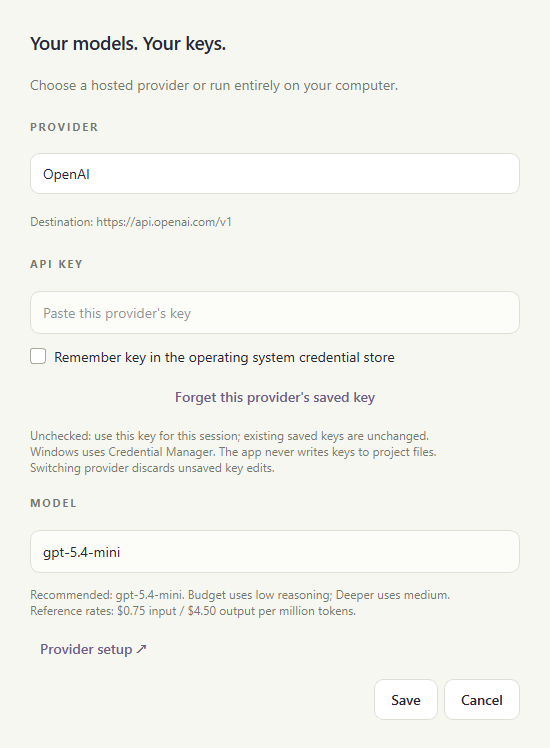
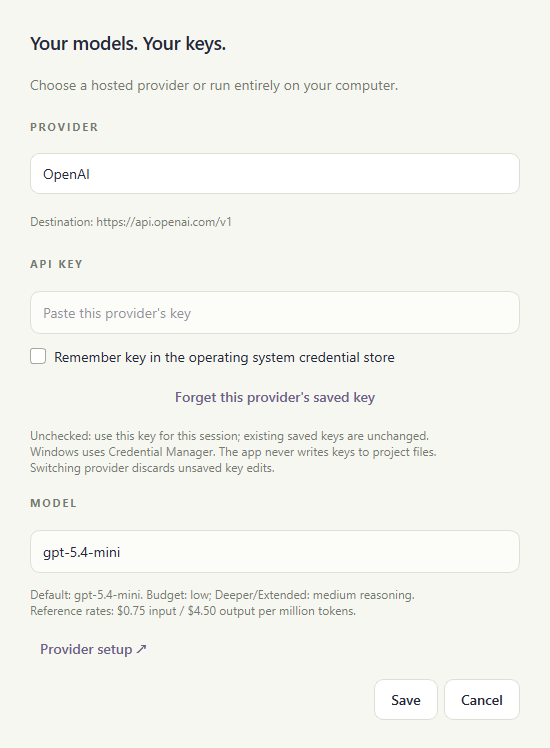
Add explicit extended solve budget and clarify incomplete responses

Changed region(s): [[0.0618, 0.7687, 0.8036, 0.7995]]

diff --git a/src/connections/service.py b/src/connections/service.py
@@ -134,7 +134,7 @@ class SolverService:
         if not fresh:
             if cached := self._cached(key):
                 return cached
-        deeper = request.mode == "deeper"
+        deeper = request.mode != "budget"
         locked_words = {word for group in request.locked for word in group.words}
         remaining = [word for word in request.words if word not in locked_words]
         count = 4 - len(request.locked)
@@ -157,7 +157,7 @@ class SolverService:
             SOLVE_PROMPT,
             json.dumps(payload),
             effort="medium" if deeper else "low",
-            max_tokens=6500 if deeper else 3500,
+            max_tokens={"budget": 3500, "deeper": 6500, "extended": 16000}[request.mode],
         )
         solution = Solution(
             groups=[
@@ -216,6 +216,7 @@ class SolverService:
                 text_format=schema,
                 reasoning={"effort": effort},
                 max_output_tokens=max_tokens,
+                timeout=300.0 if max_tokens > 6500 else 90.0,
                 store=False,
             )
         except AuthenticationError:
@@ -251,9 +252,28 @@ class SolverService:
             ) from None
         usage = self._usage(response)
         if response.status == "incomplete":
+            reason = getattr(response.incomplete_details, "reason", None)
+            if reason != "max_output_tokens":
+                message = (
+                    "The provider filtered the response. Review the input; "
+                    "increasing the token budget will not resolve a content filter. "
+                    if reason == "content_filter"
+                    else "The provider returned an incomplete response "
+                    "without a token-limit reason. "
+                )
+                raise ServiceError(
+                    message + "No automatic retry was made. This request may be billed.", usage
+                )
             raise ServiceError(
-                "The response stopped before finishing its token budget. Try deeper "
-                "mode or simplify the image. This request may be billed.",
+                f"The model exhausted its {max_tokens:,}-token output budget "
+                "(including reasoning); this is not a timeout. "
+                + (
+                    "Try Extended mode or a cheaper provider. "
+                    if max_tokens < 16000
+                    else "Extended's limit was reached too. "
+                    "Try a different model or add confirmed groups. "
+                )
+                + "No automatic retry was made. This request may be billed.",
                 usage,
             )
         if response.output_parsed is None:
@@ -293,6 +313,7 @@ class SolverService:
             ],
             response_format={"type": "json_object"},
             max_tokens=max_tokens,
+            timeout=300.0 if max_tokens > 6500 else 90.0,
             **options,
         )
         raw_usage = response.usage
@@ -325,7 +346,10 @@ class SolverService:
         model = self.settings.model
         try:
             # Check before sending puzzle data, including aliases with innocent-looking names.
-            info_response = self._local_client.post(base + "/api/show", json={"model": model})
+            timeout = 300.0 if max_tokens > 6500 else 180.0
+            info_response = self._local_client.post(
+                base + "/api/show", json={"model": model}, timeout=timeout
+            )
             info_response.raise_for_status()
             info = info_response.json()
             if (
@@ -365,11 +389,14 @@ class SolverService:
                     },
                     user_message,
                 ],
-                "options": {"num_ctx": 8192, "num_predict": max_tokens},
+                "options": {
+                    "num_ctx": max_tokens + 4096 if max_tokens > 6500 else 8192,
+                    "num_predict": max_tokens,
+                },
             }
             if "thinking" in info.get("capabilities", []):
                 body["think"] = False
-            response = self._local_client.post(base + "/api/chat", json=body)
+            response = self._local_client.post(base + "/api/chat", json=body, timeout=timeout)
             response.raise_for_status()
             result = response.json()
             if result.get("done") is not True or result.get("done_reason") == "length":

diff --git a/tests/test_providers.py b/tests/test_providers.py
@@ -15,7 +15,8 @@ from connections.service import ServiceError, SolverService
 @pytest.mark.parametrize(
     "provider,host", [("kimi", "api.moonshot.ai"), ("deepseek", "api.deepseek.com")]
 )
-def test_cloud_chat_uses_own_key_and_validated_json(provider, host):
+@pytest.mark.parametrize("mode", ["budget", "extended"])
+def test_cloud_chat_uses_own_key_and_validated_json(provider, host, mode):
     settings = Settings(provider=provider, api_key="provider-only")
     requests = []
 
@@ -51,22 +52,22 @@ def test_cloud_chat_uses_own_key_and_validated_json(provider, host):
         http_client=httpx.Client(transport=httpx.MockTransport(handle)),
     )
     service = SolverService(settings, client=client)
-    result = service.solve(SolveRequest(words=WORDS))
+    result = service.solve(SolveRequest(words=WORDS, mode=mode))
     assert len(result.value.groups) == 4
     assert requests[0].url.host == host
     assert requests[0].headers["authorization"] == "Bearer provider-only"
     assert result.usage.estimated_cost_usd is None
     body = json.loads(requests[0].content)
     assert body["response_format"] == {"type": "json_object"}
-    assert body["max_tokens"] == 3500
-    assert (
-        body["reasoning_effort"] == "low"
-        if provider == "kimi"
-        else body["thinking"] == {"type": "disabled"}
-    )
+    assert body["max_tokens"] == (16000 if mode == "extended" else 3500)
+    assert requests[0].extensions["timeout"]["read"] == (300 if mode == "extended" else 90)
+    if provider == "kimi":
+        assert body["reasoning_effort"] == ("high" if mode == "extended" else "low")
+    else:
+        assert body["thinking"] == {"type": "enabled" if mode == "extended" else "disabled"}
 
 
-def local_service(*, remote=False, malformed=False):
+def local_service(*, remote=False, malformed=False, solving=False):
     requests = []
 
     def handle(request):
@@ -86,7 +87,13 @@ def local_service(*, remote=False, malformed=False):
                 "done": True,
                 "done_reason": "stop",
                 "message": {
-                    "content": "{}" if malformed else json.dumps({"words": WORDS, "warning": ""})
+                    "content": "{}"
+                    if malformed
+                    else json.dumps(
+                        {"groups": [g.model_dump() for g in groups()]}
+                        if solving
+                        else {"words": WORDS, "warning": ""}
+                    )
                 },
                 "prompt_eval_count": 100,
                 "eval_count": 100,
@@ -127,3 +134,12 @@ def test_bad_local_output_never_reaches_the_grid():
     service, _ = local_service(malformed=True)
     with pytest.raises(ServiceError, match="valid"):
         service.extract(prepare_image(make_image()))
+
+
+def test_extended_local_budget_has_enough_context_and_longer_request_timeout():
+    service, requests = local_service(solving=True)
+    result = service.solve(SolveRequest(words=WORDS, mode="extended"))
+    assert len(result.value.groups) == 4
+    body = json.loads(requests[-1].content)
+    assert body["options"] == {"num_ctx": 20096, "num_predict": 16000}
+    assert all(request.extensions["timeout"]["read"] == 300 for request in requests)

diff --git a/tests/test_service.py b/tests/test_service.py
@@ -171,6 +171,47 @@ def test_deeper_mode_uses_larger_explicit_budget():
     assert requests[0]["reasoning"]["effort"] == "medium"
 
 
+def test_extended_mode_allows_more_tokens_and_time_without_increasing_reasoning(monkeypatch):
+    service, requests = make_service(response_body({"groups": [g.model_dump() for g in groups()]}))
+    recorded = []
+    original = service._client.responses.parse
+
+    def parse(**options):
+        recorded.append(options["timeout"])
+        return original(**options)
+
+    monkeypatch.setattr(service._client.responses, "parse", parse)
+    service.solve(SolveRequest(words=WORDS, mode="extended"))
+    assert requests[0]["max_output_tokens"] == 16000
+    assert requests[0]["reasoning"]["effort"] == "medium"
+    assert recorded == [300.0]
+
+
+def test_token_exhaustion_message_distinguishes_time_from_budget():
+    body = response_body({}, status="incomplete")
+    body["output"] = []
+    body["incomplete_details"] = {"reason": "max_output_tokens"}
+    service, _ = make_service(body)
+    with pytest.raises(ServiceError) as error:
+        service.solve(SolveRequest(words=WORDS, mode="deeper"))
+    assert "6,500" in str(error.value)
+    assert "Extended" in str(error.value)
+    assert "not a timeout" in str(error.value)
+
+
+@pytest.mark.parametrize("reason", ["content_filter", None])
+def test_other_incomplete_responses_do_not_recommend_a_larger_budget(reason):
+    body = response_body({}, status="incomplete")
+    body["output"] = []
+    body["incomplete_details"] = {"reason": reason} if reason else None
+    service, _ = make_service(body)
+    with pytest.raises(ServiceError) as error:
+        service.solve(SolveRequest(words=WORDS))
+    assert "Extended" not in str(error.value)
+    assert "exhausted" not in str(error.value)
+    assert error.value.usage is not None
+
+
 def test_key_is_never_redirected_by_sdk_base_url_environment(monkeypatch):
     monkeypatch.setenv("OPENAI_BASE_URL", "https://example.invalid/v1")
     service = SolverService(Settings(api_key="test-key"))

diff --git a/src/connections/gui/window.py b/src/connections/gui/window.py
@@ -78,6 +78,7 @@ class MainWindow(QMainWindow):
         self.setStyleSheet(STYLE)
         self.setAcceptDrops(True)
         self._build()
+        self.mode.currentIndexChanged.connect(self._refresh)
         self._refresh()
         if configuration_error:
             self._message(configuration_error)
@@ -244,8 +245,12 @@ class MainWindow(QMainWindow):
         self.mode = QComboBox()
         self.mode.addItem("Budget · everyday", "budget")
         self.mode.addItem("Deeper · tricky puzzles", "deeper")
+        self.mode.addItem("Extended · more time/tokens", "extended")
         self.mode.setAccessibleName("Solving style")
-        self.mode.setToolTip("Budget uses fewer reasoning tokens. Deeper allows more thinking.")
+        self.mode.setToolTip(
+            "Budget: 3,500 tokens. Deeper: 6,500. Extended: 16,000 and a five-minute "
+            "request timeout. Larger allowances can increase cloud costs."
+        )
         options.addWidget(self.mode)
         right.addLayout(options)
         self.solve_button = button("Find connections  →", "Primary", self.start_solve)
@@ -326,7 +331,12 @@ class MainWindow(QMainWindow):
         try:
             SolveRequest(words=words)
             valid = True
-            note = "Ready when you are. Each word will be used exactly once."
+            note = (
+                "Extended: 16,000 tokens · up to five minutes per request. "
+                "May increase cloud cost and local memory use."
+                if self.mode.currentData() == "extended"
+                else "Ready when you are. Each word will be used exactly once."
+            )
         except ValueError:
             valid = False
             note = "Use 16 unique words. Check for empty or duplicate tiles."

diff --git a/src/connections/cli.py b/src/connections/cli.py
@@ -51,7 +51,9 @@ def build_parser() -> argparse.ArgumentParser:
                 "--words-file", type=Path, help="UTF-8 text file, one word per line"
             )
             source.add_argument("--demo", action="store_true", help="Offline example; no API usage")
-            command.add_argument("--mode", choices=["budget", "deeper"], default="budget")
+            command.add_argument(
+                "--mode", choices=["budget", "deeper", "extended"], default="budget"
+            )
         command.add_argument("--json", action="store_true", help="Machine-readable output")
         command.add_argument("--model", help="Override CONNECTIONS_MODEL (advanced)")
         command.add_argument("--provider", choices=list(PROVIDERS), help="Override saved provider")

diff --git a/src/connections/gui/settings_dialog.py b/src/connections/gui/settings_dialog.py
@@ -101,7 +101,7 @@ class SettingsDialog(QDialog):
         self.model_input.setText(settings.model)
         self.destination.setText("Destination: " + provider.base_url)
         notes = {
-            "openai": "Recommended: gpt-5.4-mini. Budget uses low reasoning; Deeper uses medium.\n"
+            "openai": "Default: gpt-5.4-mini. Budget: low; Deeper/Extended: medium reasoning.\n"
             "Reference rates: $0.75 input / $4.50 output per million tokens.",
             "kimi": "Default: kimi-k3.1-pro. Hosted API, billed by Moonshot.\n"
             "Budget uses low reasoning; Deeper uses high. Kimi K2.5 API is retired.",

diff --git a/tests/test_gui.py b/tests/test_gui.py
@@ -233,3 +233,12 @@ def test_replaced_cards_are_hidden_before_deferred_deletion(qtbot):
     assert old_card.isVisible()
     widget.toggle_lock(0, True)
     assert not old_card.isVisible()
+
+
+def test_extended_style_is_explicit_and_warns_about_cost(qtbot):
+    widget = window(qtbot)
+    widget.set_words(DEMO_WORDS)
+    widget.mode.setCurrentIndex(widget.mode.findData("extended"))
+    assert widget.mode.currentData() == "extended"
+    assert "16,000" in widget.board_note.text()
+    assert "cost" in widget.board_note.text().lower()

diff --git a/src/connections/models.py b/src/connections/models.py
@@ -49,7 +49,7 @@ class SolveRequest(StrictModel):
     words: list[str]
     locked: list[Group] = Field(default_factory=list, max_length=4)
     rejected: list[list[str]] = Field(default_factory=list, max_length=32)
-    mode: Literal["budget", "deeper"] = "budget"
+    mode: Literal["budget", "deeper", "extended"] = "budget"
 
     @field_validator("words")
     @classmethod

diff --git a/README.md b/README.md
@@ -176,6 +176,14 @@ Rates and account availability can change.
 | Read screenshot | None | 1,200 |
 | Budget solve | Low | 3,500 |
 | Deeper solve | Medium | 6,500 |
+| Extended solve | Medium | 16,000 |
+
+Extended uses a five-minute request timeout instead of the standard 90 seconds.
+Choose it explicitly under Solving style or pass `--mode extended`. It raises the
+allowance, not the price per token, but can cost more if the model uses more tokens.
+At the reference GPT-5.4 mini rate, 16,000 output tokens alone cost up to $0.072,
+plus input and any image extraction. It does not guarantee completion or accuracy.
+Reasoning uses the output allowance too: a token-budget error is not a timeout.
 
 A **hypothetical** solve with 1,500 uncached input tokens and 2,000 total output
 tokens costs approximately **$0.010125**, about one US cent. Image reading is
@@ -278,10 +286,10 @@ CLI feedback editing is not implemented; use the desktop to lock/reject groups.
 | API key needed/rejected | Add a key in Settings; verify project and permissions. |
 | Billing quota exhausted | Check API credits and project/organization billing limits. |
 | Rate limited | Wait before trying again; there are no hidden retries. |
-| Token budget exhausted | Try Deeper; review spelling and feedback first. |
+| Token budget exhausted | Review words/feedback; Extended allows 16,000 tokens and can cost more. |
 | Wrong/missing words | Crop a sharper grid or edit tiles manually. |
 | Clipboard has no image | Capture to clipboard or use Open image. |
-| Window won't close yet | A request is running (90-second cloud / 180-second local timeout); let it finish. |
+| Window won't close yet | A request is running (90-second cloud / 180-second local; Extended uses 300 seconds); let it finish. |
 | Cannot reach Ollama | Start Ollama; run `ollama pull qwen3-vl:4b`; check the selected model. |
 | OS credential store locked | Unlock the keychain, or leave Remember unchecked for a session-only key. |
 | Desktop support missing | Run `python -m pip install -e ".[desktop]"`. |

diff --git a/docs/verification.md b/docs/verification.md
@@ -4,7 +4,7 @@ Verified locally on Windows, Python 3.13.2, October 30, 2026.
 
 ## Automated checks
 
-- **69 tests pass**: board normalization, duplicate/blank rejection, full partition
+- **77 tests pass**: board normalization, duplicate/blank rejection, full partition
   integrity, locks/rejected sets, safe image handling, service caching/costs,
   typed output via the real SDK, API error/refusal/incomplete responses, explicit
   reasoning/token settings, CLI output and desktop state/lifecycle. Provider tests
@@ -16,6 +16,11 @@ Verified locally on Windows, Python 3.13.2, October 30, 2026.
   export protection on failure, and neutral feedback after success.
   Individual submitted confirmations remain undoable, and replaced cards are
   hidden immediately to prevent overlap during deferred Qt widget deletion.
+  Extended mode is tested through the real SDK's mocked HTTP boundary for OpenAI,
+  Kimi and DeepSeek, and the local Ollama boundary: 16,000 tokens, longer request
+  timeout, compatible reasoning and sufficient local context. Incomplete content-
+  filtered/unknown responses never receive token-exhaustion advice. UI tests
+  verify explicit selection and the increased-cost notice.
 - Ruff lint and format checks pass.
 - Wheel and source distribution build successfully. Their contents were checked
   for required source and absence of `.env` / virtual environments.

diff --git a/docs/providers-and-keys.md b/docs/providers-and-keys.md
@@ -118,6 +118,18 @@ The API cost display is zero, not a measurement of electricity costs. A local
 request times out after 180 seconds; timeout does not guarantee that Ollama has
 stopped computing. Start with a smaller model if it repeatedly times out.
 
+**Extended mode** raises the solve allowance to 16,000 tokens and the request
+timeout to 300 seconds for all providers. OpenAI still uses medium reasoning,
+Kimi/DeepSeek use high; local optional thinking remains disabled. Ollama's context
+increases to 20,096 tokens in this mode, which can require substantially more
+memory. Ordinary modes retain the 8,192-token context. Prefer Budget locally first.
+
+If you want cheaper cloud experiments, choose DeepSeek → `deepseek-flash` and
+start with Budget. Current rates checked October 30, 2026 are $0.15–$0.30 per
+million uncached input tokens and $0.60–$1.20 per million output tokens, depending
+on off-peak/peak hours. This is cheaper per token than GPT-5.4 mini, but puzzle
+accuracy has not been compared. See [official pricing](https://api-docs.deepseek.com/quick_start/pricing/).
+
 macOS/Linux: install Ollama from its official site, apply its documented
 `OLLAMA_NO_CLOUD` configuration for your service/launcher, and use the same pull
 command. Connections Studio requires Ollama on the **same computer**, at its

diff --git a/docs/architecture.md b/docs/architecture.md
@@ -64,6 +64,10 @@ reasoning `none` / 1,200 output tokens; budget uses `low` / 3,500; deeper uses
 `medium` / 6,500. Limits include reasoning tokens. Incomplete, refused or invalid
 output is a recoverable error. SDK retries are disabled and timeout is 90 seconds.
 A failed/timed-out request can still be billed.
+Extended mode uses medium OpenAI reasoning, 16,000 output tokens and a 300-second
+per-request timeout for every provider. Kimi/DeepSeek retain Deeper's reasoning.
+Local context increases to output allowance plus 4,096 tokens (20,096 total).
+Token-budget errors explicitly distinguish exhaustion from a network timeout.
 
 Kimi and DeepSeek use official Chat Completions APIs with JSON mode, a schema in
 the prompt and the same local validation. Kimi uses low/high reasoning; DeepSeek
